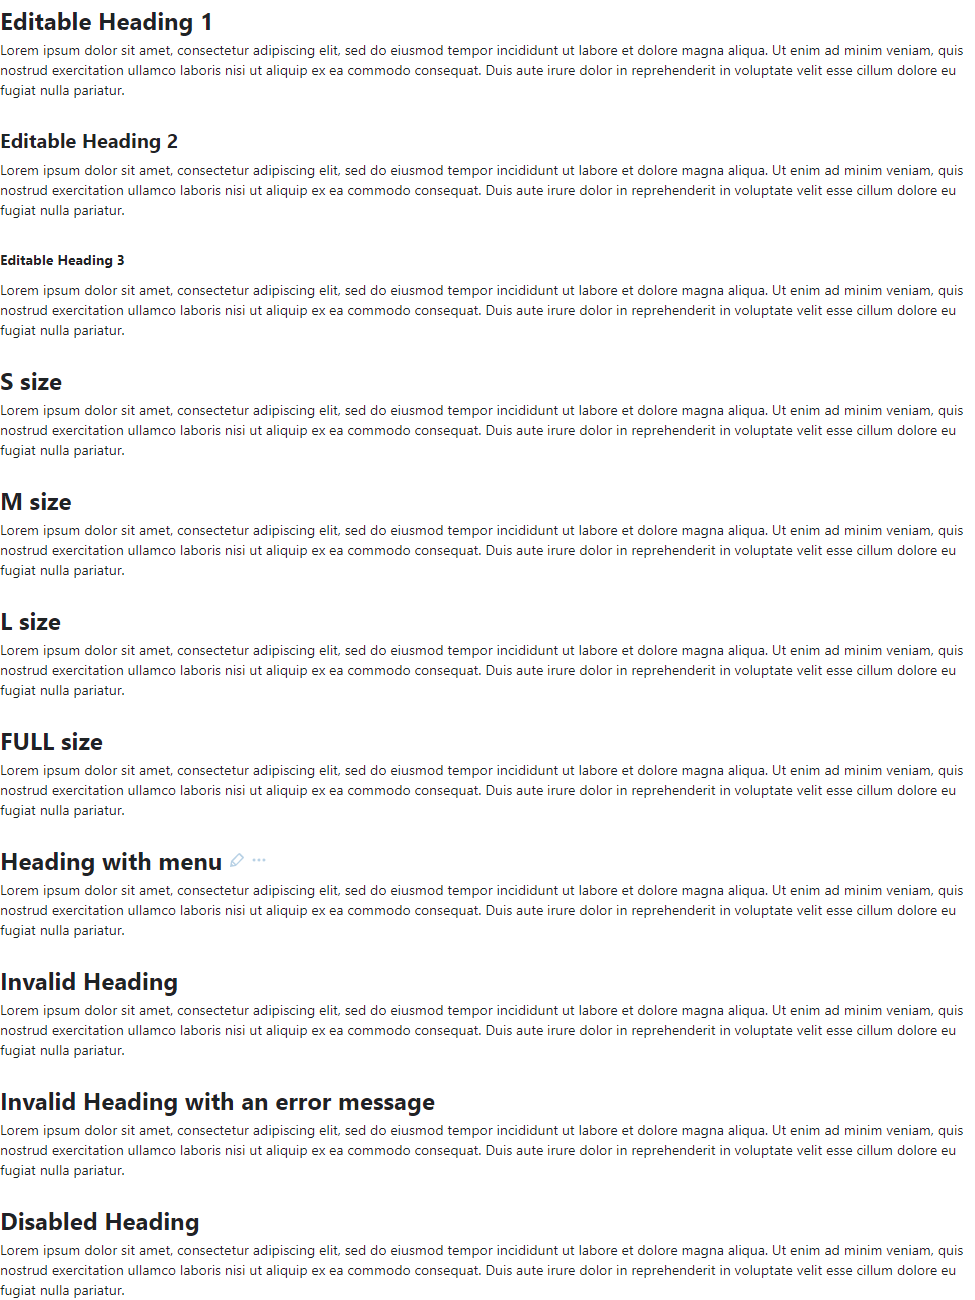
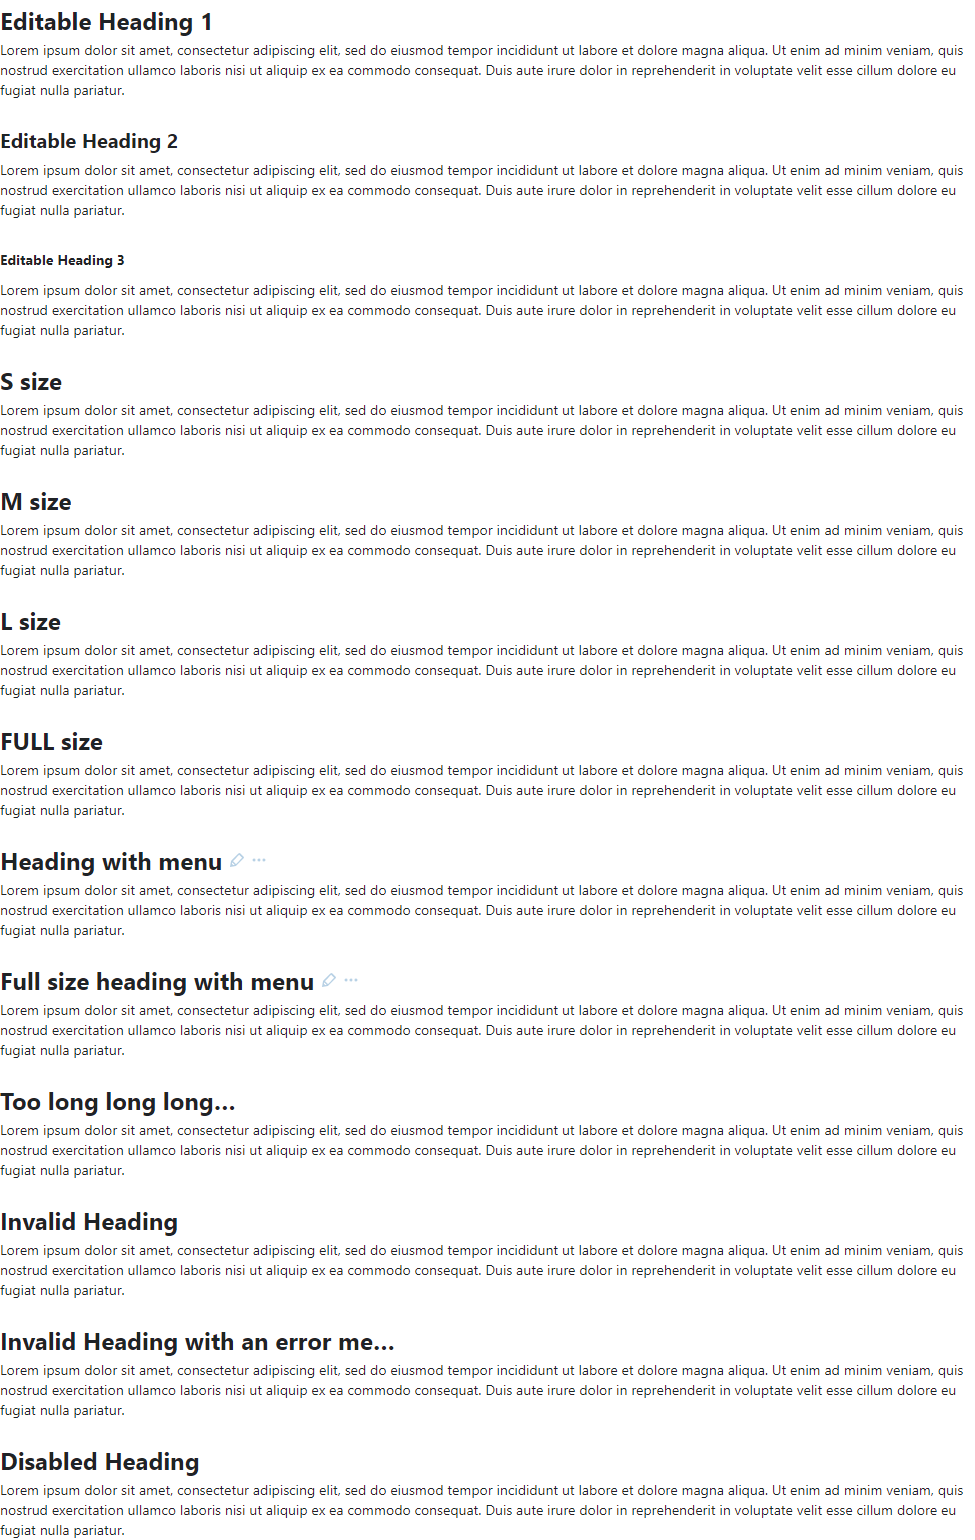
Editable Heading. Crop too long headings [publish]

Changed region(s): [[0.0, 0.0, 0.9846, 1.0]]

diff --git a/src/editable-heading/editable-heading.css b/src/editable-heading/editable-heading.css
@@ -4,6 +4,8 @@
   display: flex;
   align-items: center;
 
+  max-width: 100%;
+
   &.fullSize {
     width: 100%;
   }
@@ -13,13 +15,8 @@
   }
 }
 
-.heading.heading {
-  margin-bottom: 0;
-
-  line-height: 28px;
-}
-
 .headingWrapperButton {
+  max-width: 100%;
   margin: 0;
   padding: 0;
 
@@ -43,9 +40,14 @@
 }
 
 .heading {
+  overflow: hidden;
+
   padding: 6px 0;
 
   cursor: pointer;
+
+  white-space: nowrap;
+  text-overflow: ellipsis;
 
   border-radius: var(--ring-border-radius);
 
@@ -58,6 +60,12 @@
 
     background-color: initial;
   }
+}
+
+.heading.heading {
+  margin-bottom: 0;
+
+  line-height: 28px;
 }
 
 .input {
@@ -124,4 +132,20 @@
 
 .level3 {
   font-size: 14px;
+}
+
+.sizeS {
+  max-width: calc(unit * 12);
+}
+
+.sizeM {
+  max-width: calc(unit * 30);
+}
+
+.sizeL {
+  max-width: calc(unit * 50);
+}
+
+.sizeFULL {
+  max-width: 100%;
 }

diff --git a/src/editable-heading/editable-heading.tsx b/src/editable-heading/editable-heading.tsx
@@ -71,13 +71,13 @@ export const EditableHeading = (props: EditableHeadingProps) => {
   }), [isSaveDisabled, isCancelDisabled, onSave, onCancel]);
 
   const classes = classNames(styles.editableHeading, className, {
-    [styles.fullSize]: size === Size.FULL,
+    [styles.fullSize]: isEditing && size === Size.FULL,
     [styles.isEditing]: isEditing,
     [styles.error]: hasError,
     [styles.disabled]: disabled
   });
 
-  const headingClasses = classNames(styles.heading, headingClassName);
+  const headingClasses = classNames(styles.heading, headingClassName, styles[`size${size}`]);
 
   const inputClasses = classNames(
     'ring-js-shortcuts',

diff --git a/src/editable-heading/editable-heading.examples.tsx b/src/editable-heading/editable-heading.examples.tsx
@@ -96,6 +96,16 @@ export const basic = () => {
       <ExampleEditableHeading renderMenu={renderMenu}>Heading with menu</ExampleEditableHeading>
       {lorem}
 
+      <ExampleEditableHeading size={Size.FULL} renderMenu={renderMenu}>
+        Full size heading with menu
+      </ExampleEditableHeading>
+      {lorem}
+
+      <ExampleEditableHeading size={Size.M}>
+        Too long long long long long long long heading
+      </ExampleEditableHeading>
+      {lorem}
+
       <ExampleEditableHeading error="">Invalid Heading</ExampleEditableHeading>
       {lorem}
 
